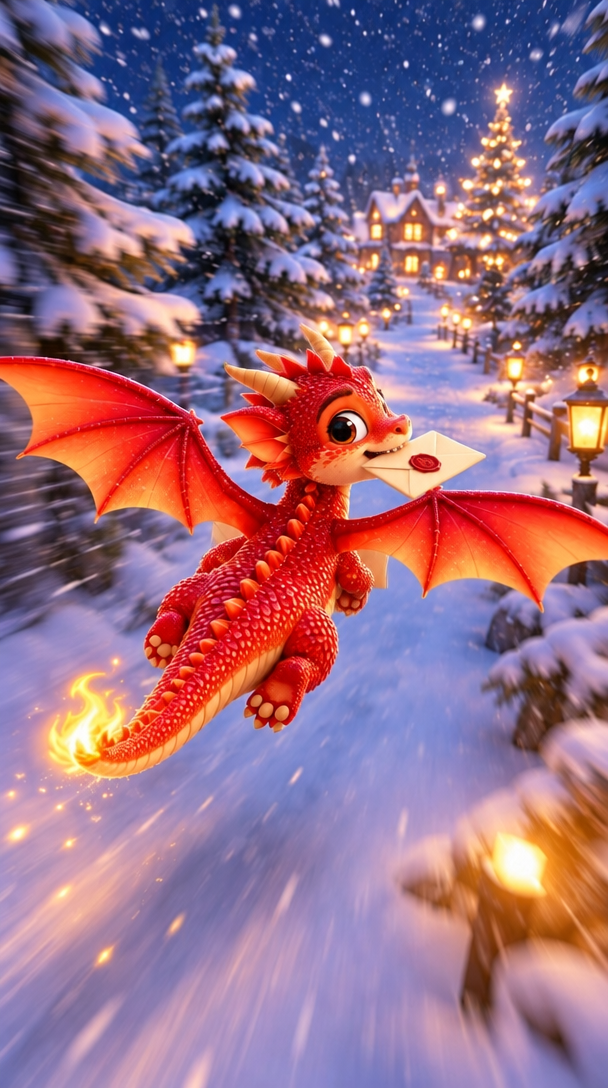
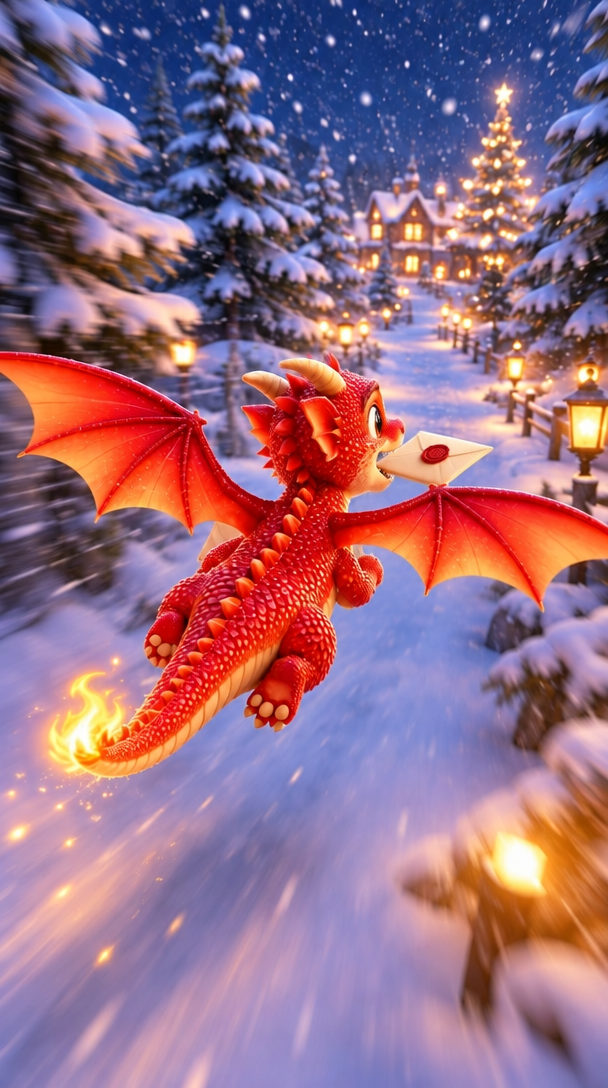
Полёт Огонька: смотрит вперёд, оглядывается только над Москвой
Claude-Session: https://claude.ai/code/session_01TXwNN2je3RbbmpXYz6m2NX

diff --git a/polet/rot.py b/polet/rot.py
@@ -3,13 +3,14 @@ os.environ.setdefault("FAL_KEY","proxy-injected")
 RAZ=("The envelope: exactly ONE closed cream envelope with a red wax seal, a landscape rectangle about 1.5 times as wide as the dragon's head "
      "(the same size as on the reference sheet, image 2). Not bigger, not smaller, never two envelopes.")
 def go(k):
-    p=("Edit image 1: keep the composition, camera angle, background, lighting, motion blur and the dragon's body and wings the same, "
-       "but the dragon TURNS HIS HEAD to the side, looking over his shoulder in THREE-QUARTER PROFILE, so his snout, mouth and one cute eye are clearly visible; "
-       "he carries the envelope IN HIS MOUTH: one short edge of the envelope is gripped between his front teeth and the envelope sticks out FORWARD-SIDEWAYS in front of his snout, "
-       "clearly OUTSIDE his head, like a puppy carrying a letter. It must be obvious that the envelope is in his mouth, not behind or through his head. "
+    look=("he glances back over his shoulder at the camera with a cheerful smile, three-quarter view, " if k=="3" else
+          "he LOOKS FORWARD in the direction of flight, toward where he is flying (NOT at the camera); his head is turned slightly to the side so we see it in SIDE PROFILE: his snout points forward, one eye looks ahead, ")
+    p=("Edit image 1: keep the composition, camera angle, background, lighting, motion blur and the dragon's body and wings the same, but "+look+
+       "and his mouth is clearly visible. He carries the envelope IN HIS MOUTH: one short edge of the envelope is gripped between his front teeth and the envelope sticks out "
+       "sideways from his mouth, clearly OUTSIDE his head, like a puppy carrying a letter. It must be obvious that the envelope is in his mouth, not behind or through his head. "
        "His front paws are empty and tucked under his chest. "+RAZ+" No text.")
     r=fal_client.subscribe("openai/gpt-image-2.6/flare/edit",arguments={"prompt":p,
-       "image_urls":[fal_client.upload_file(f"kadry/v1/{k}.png"),fal_client.upload_file("razmery.png")],"image_size":"portrait_16_9","quality":"medium","num_images":1,"output_format":"png"})
+       "image_urls":[fal_client.upload_file(f"kadry/v1/{k}.png" if k!="3" else "kadry/rot_3.png"),fal_client.upload_file("razmery.png")],"image_size":"portrait_16_9","quality":"medium","num_images":1,"output_format":"png"})
     urllib.request.urlretrieve(r["images"][0]["url"],f"kadry/rot_{k}.png"); return k
 with cf.ThreadPoolExecutor(4) as ex:
     for f in cf.as_completed([ex.submit(go,k) for k in sys.argv[1:]]):
